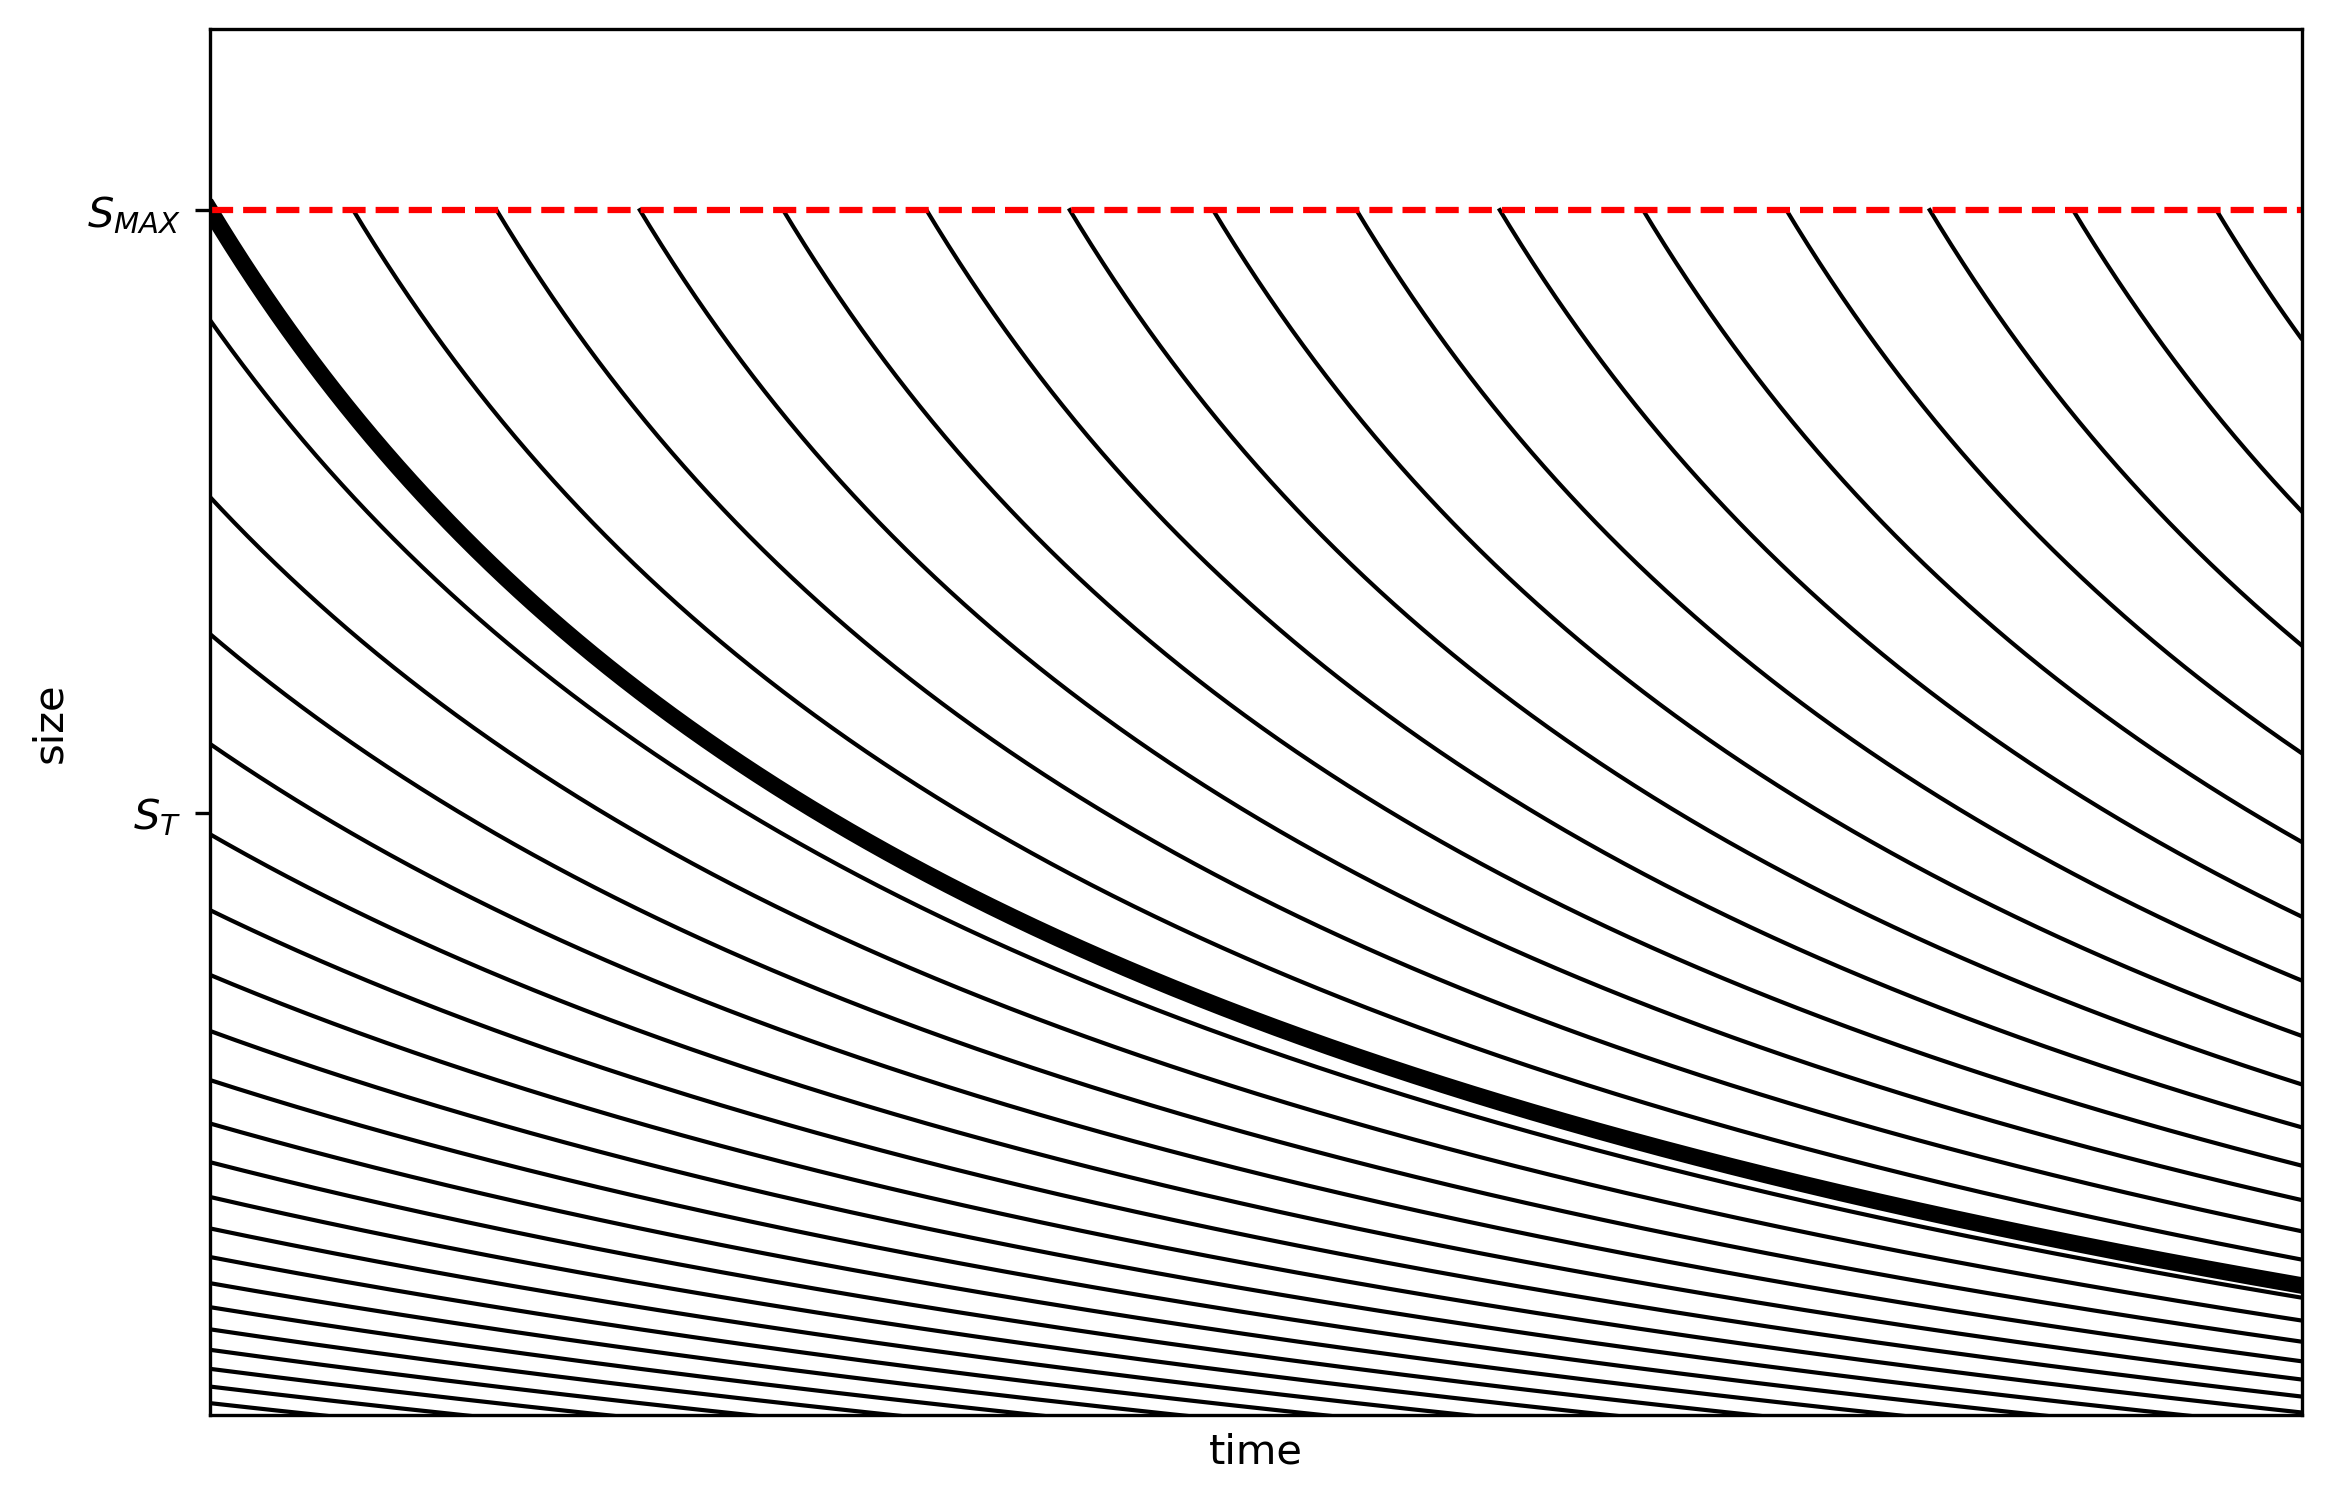
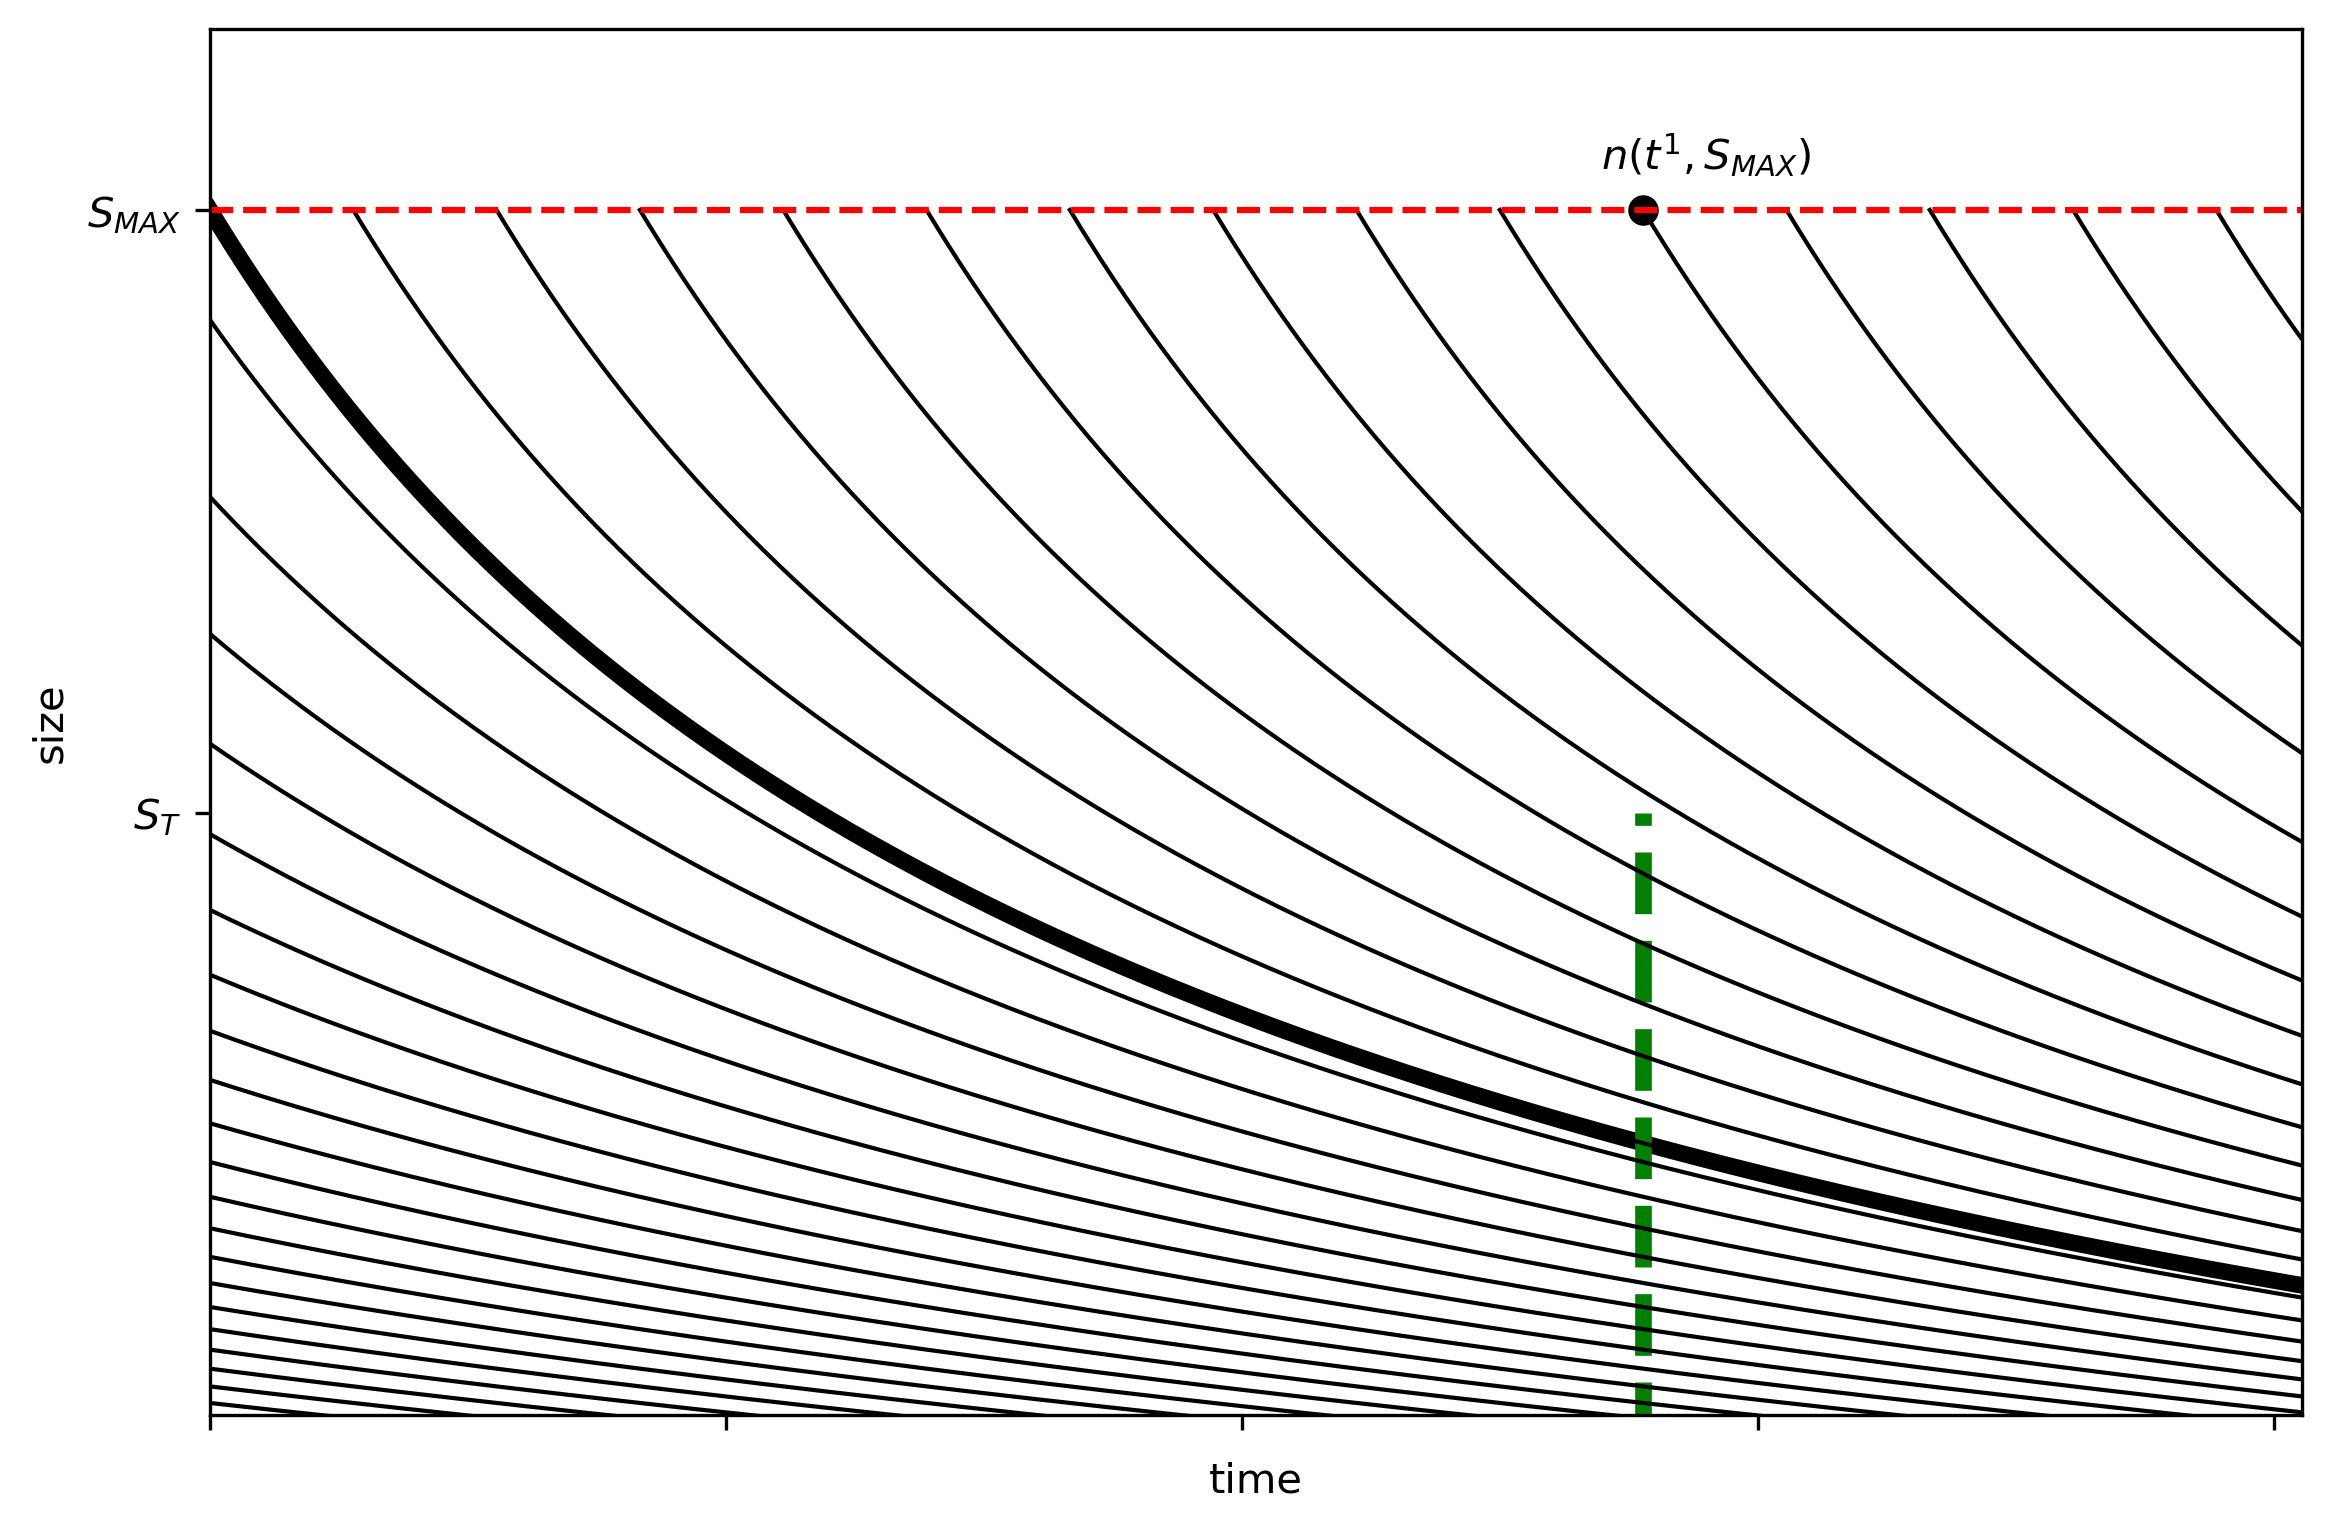
plot update

diff --git a/DIATOMS/characteristics_diatoms.py b/DIATOMS/characteristics_diatoms.py
@@ -32,7 +32,8 @@ ax.set_xlim([0.,NT])
 ax.set_ylim([40.,Smax+Smax/10.])
 ax.set_yticks([St,Smax])
 ax.set_yticklabels([r'$S_T$',r'$S_{MAX}$'])
-ax.set_xticks([])
+ax.set_xticks(np.arange(0.,NT,360))
+ax.set_xticklabels([])
 ax.set_xlabel('time')
 ax.set_ylabel('size')
 
